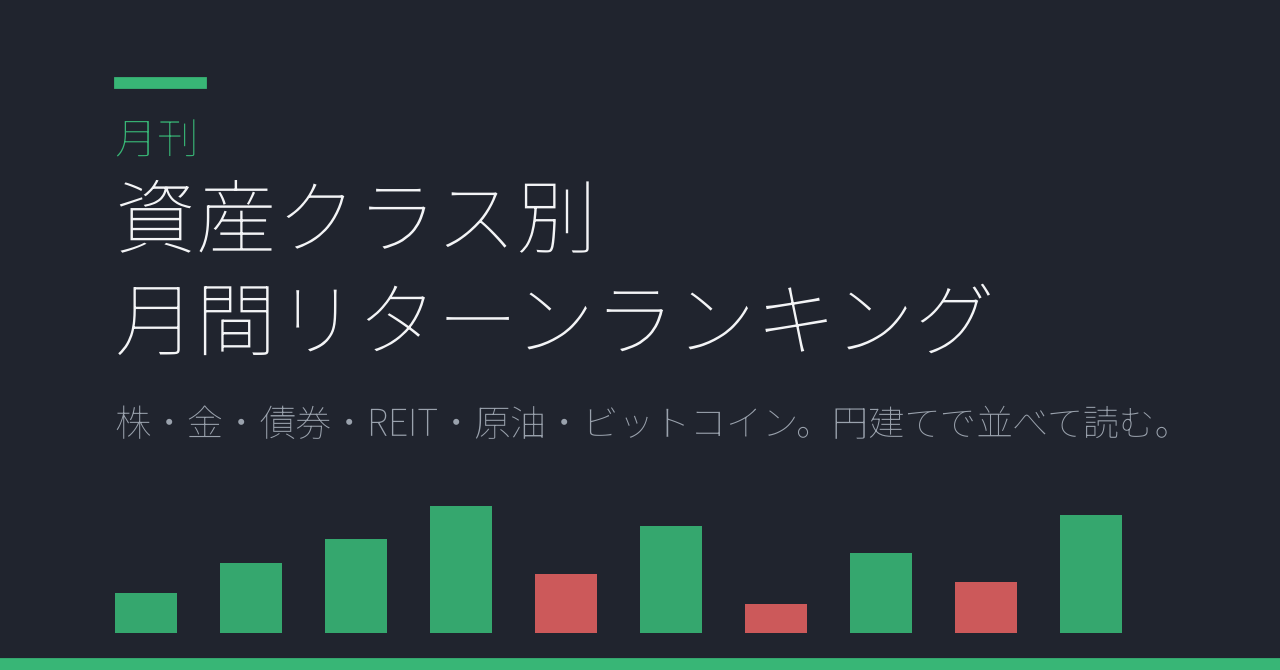
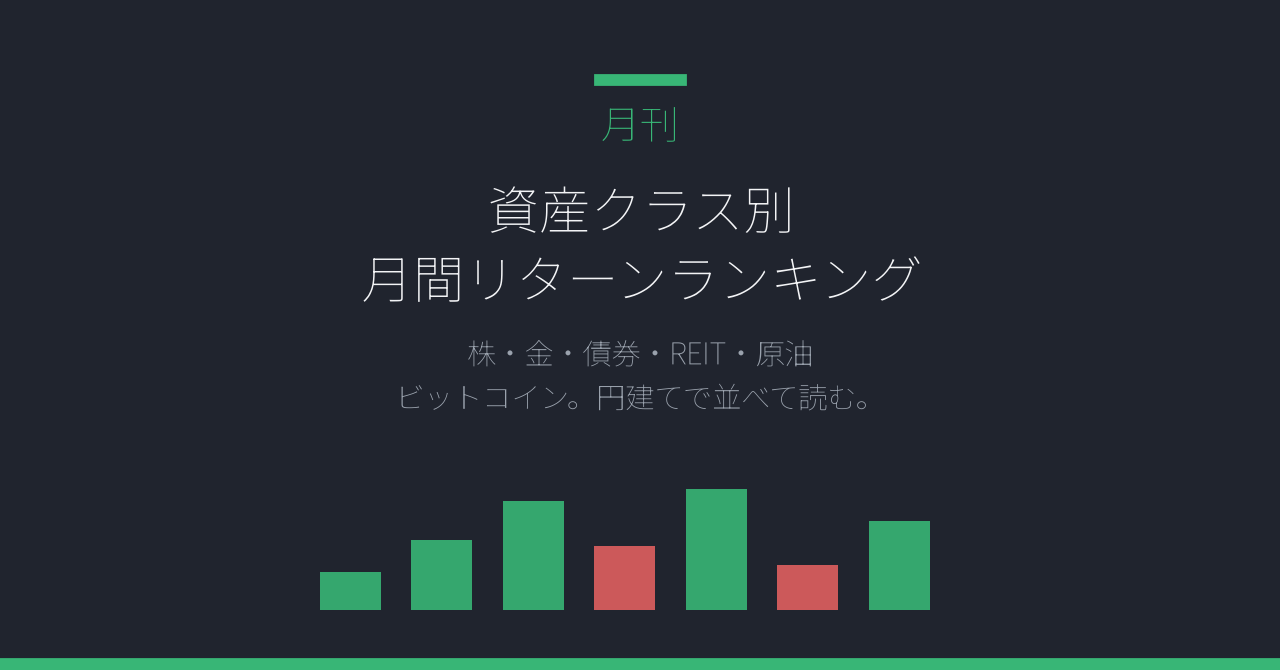
fix(6-markets): マガジン表紙の文字をnoteの中央トリミング範囲に収める
noteのマガジン表紙は一覧表示で中央正方形（1280x670の中央670px幅）にトリミングされるため、
タイトル・サブタイトル・棒グラフをすべて中央寄せ・その安全域内に収まるよう再調整。

diff --git a/dev/6-markets/assets/make_cover.py b/dev/6-markets/assets/make_cover.py
@@ -2,6 +2,10 @@
 """開発6部 — noteマガジンの表紙画像を生成する（assets/magazine-cover.png）。
 
 使い方: python dev/6-markets/assets/make_cover.py
+
+noteのマガジン表紙は一覧・関連表示で**中央の正方形にトリミングされる**ため、
+文字は必ずキャンバス中央の正方形（1280x670なら幅670pxぶん＝x軸で0.24〜0.76）に収める。
+バーの装飾も同じ安全域内に収め、キャンバスの左右は余白として残す。
 配色は各号のサムネイル（make_eyecatch.py）と揃える。
 """
 from __future__ import annotations
@@ -28,8 +32,11 @@ TITLE = "#f3f4f6"
 MUTE = "#9aa2ad"
 UP = "#38b676"
 DOWN = "#e0605f"
-BARS = [0.30, 0.52, 0.70, 0.95, 0.44, 0.80, 0.22, 0.60, 0.38, 0.88]
-DIRS = [1, 1, 1, 1, -1, 1, -1, 1, -1, 1]
+BARS = [0.30, 0.55, 0.85, 0.50, 0.95, 0.35, 0.70]
+DIRS = [1, 1, 1, -1, 1, -1, 1]
+
+CX = 0.5           # 中央正方形の中心（キャンバス中央と一致）
+SAFE_W = 0.50       # 中央正方形の内側にさらに少し余白を取った安全域の幅
 
 
 def main() -> None:
@@ -41,21 +48,22 @@ def main() -> None:
     ax.set_ylim(0, 1)
     ax.add_patch(plt.Rectangle((0, 0), 1, 1, color=BG))
 
-    x0, y0, w, h = 0.09, 0.055, 0.82, 0.20
+    # 中央正方形の安全域にだけ棒グラフを置く（装飾）
+    x0, y0, w, h = CX - SAFE_W / 2, 0.09, SAFE_W, 0.19
     n = len(BARS)
     for i, (bh, d) in enumerate(zip(BARS, DIRS)):
         x = x0 + i * (w / n)
-        ax.add_patch(plt.Rectangle((x, y0), w / (n * 1.7), h * bh,
+        ax.add_patch(plt.Rectangle((x, y0), w / (n * 1.5), h * bh,
                                     facecolor=UP if d > 0 else DOWN, edgecolor="none", alpha=0.9))
 
     ax.add_patch(plt.Rectangle((0, 0), 1, 0.016, color=UP))
-    ax.add_patch(plt.Rectangle((0.09, 0.87), 0.07, 0.013, color=UP))
-    ax.text(0.09, 0.795, "月刊", fontsize=15, color=UP, fontweight="bold", va="center")
-    t = ax.text(0.09, 0.60, "資産クラス別\n月間リターンランキング", fontsize=29, color=TITLE,
-                fontweight="bold", va="center", linespacing=1.28)
-    t.set_path_effects([pe.withStroke(linewidth=1.4, foreground=BG)])
-    ax.text(0.09, 0.37, "株・金・債券・REIT・原油・ビットコイン。円建てで並べて読む。",
-            fontsize=13, color=MUTE, va="center")
+    ax.add_patch(plt.Rectangle((CX - 0.035, 0.875), 0.07, 0.013, color=UP))
+    ax.text(CX, 0.815, "月刊", fontsize=14, color=UP, fontweight="bold", ha="center", va="center")
+    t = ax.text(CX, 0.635, "資産クラス別\n月間リターンランキング", fontsize=18.5, color=TITLE,
+                fontweight="bold", ha="center", va="center", linespacing=1.35)
+    t.set_path_effects([pe.withStroke(linewidth=1.2, foreground=BG)])
+    ax.text(CX, 0.44, "株・金・債券・REIT・原油\nビットコイン。円建てで並べて読む。",
+            fontsize=10.5, color=MUTE, ha="center", va="center", linespacing=1.5)
 
     out = Path(__file__).parent / "magazine-cover.png"
     fig.savefig(out, dpi=200, facecolor=BG)
